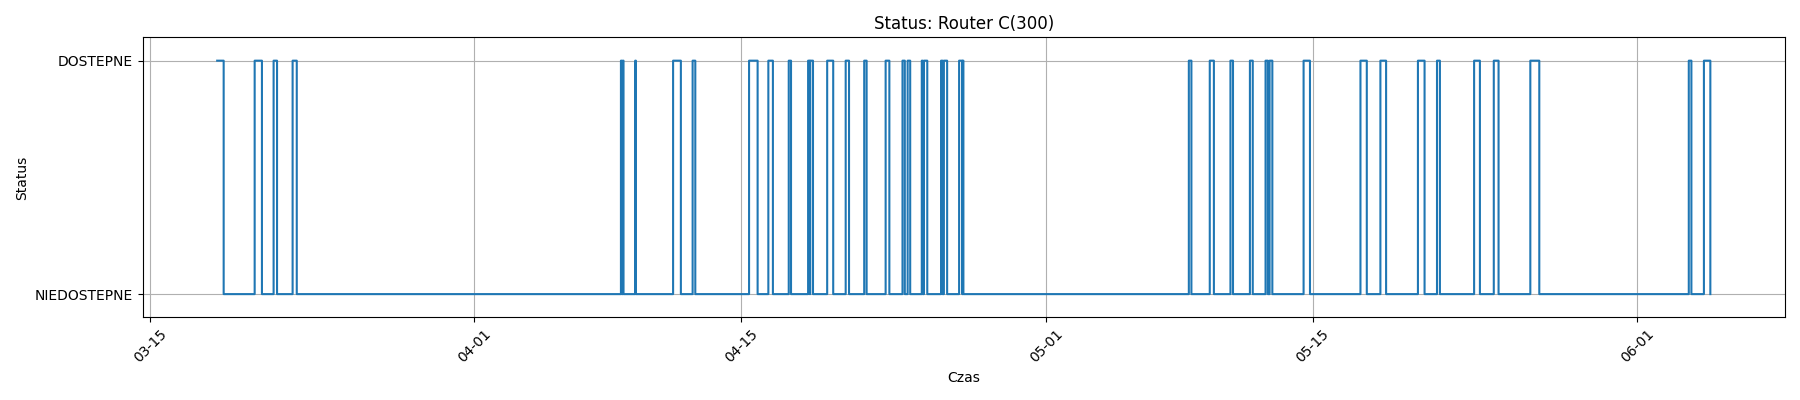
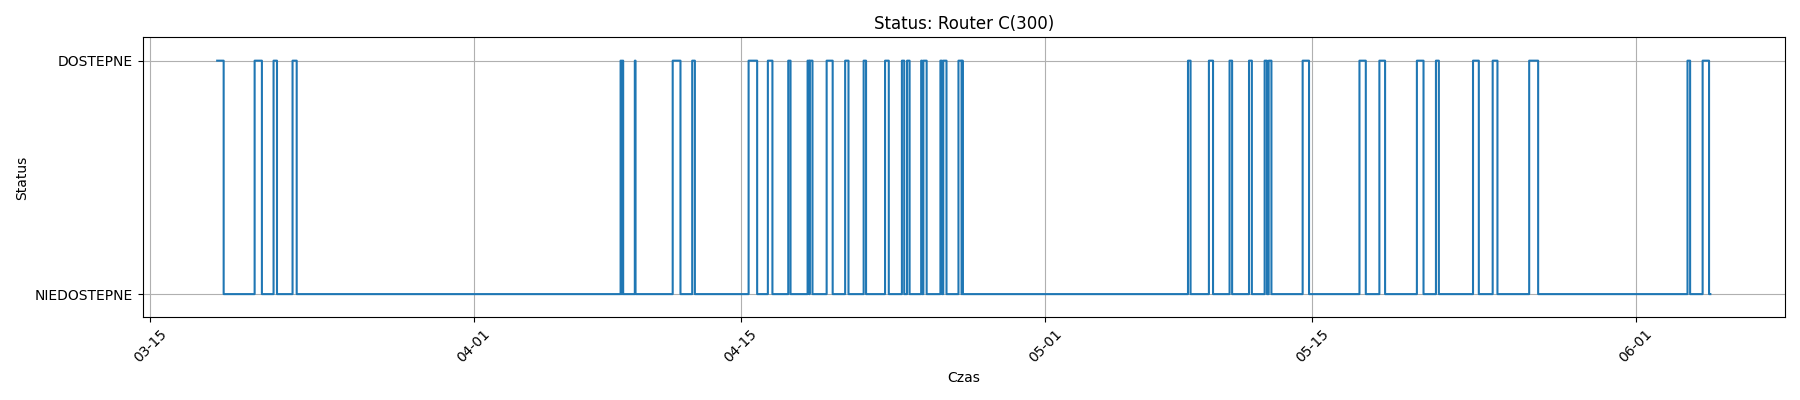
Automatyczna aktualizacja monitoringu

diff --git a/index.html b/index.html
@@ -23,7 +23,7 @@ img { border: 1px solid #ccc; border-radius: 8px; }
             </div>
             
             <div class="card">
-                <div class="status green">DOSTEPNE</div>
+                <div class="status red">NIEDOSTEPNE</div>
                 <div>Router A(500)</div>
                 <img src="chart_Router A(500).png" alt="Router A(500)" style="max-width:600px; margin-top:10px;">
             </div>
@@ -33,5 +33,5 @@ img { border: 1px solid #ccc; border-radius: 8px; }
                 <div>Router B(300)</div>
                 <img src="chart_Router B(300).png" alt="Router B(300)" style="max-width:600px; margin-top:10px;">
             </div>
-            <p>Ostatnia zmiana: 2026-06-04 20:18:51</p>
+            <p>Ostatnia zmiana: 2026-06-04 21:56:44</p>
 </body></html>